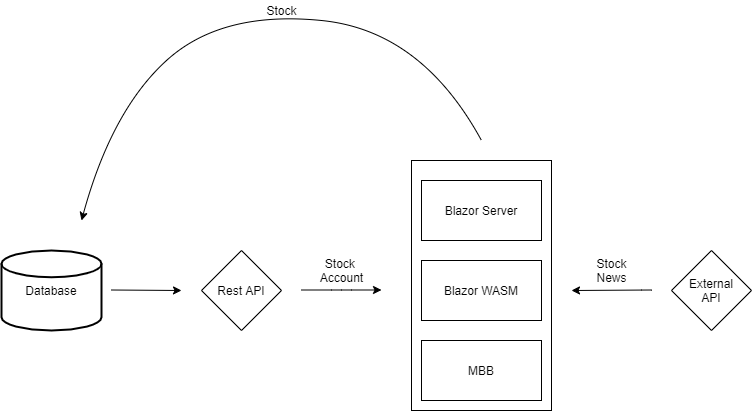
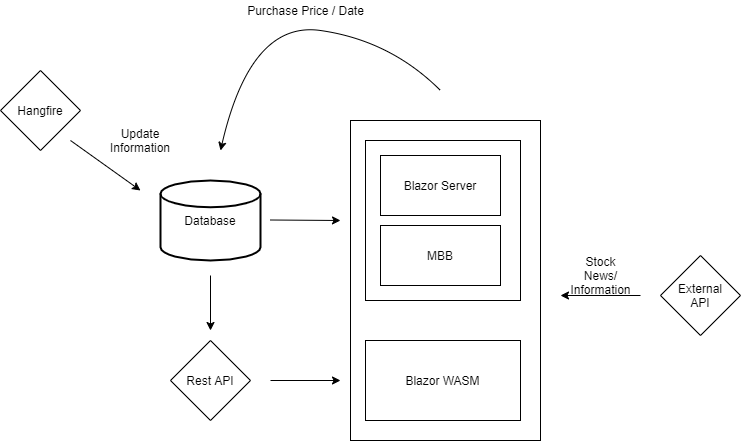
edited the inception and the modeling accordingly

diff --git a/Planning/Inception.md b/Planning/Inception.md
@@ -12,21 +12,16 @@ __________________________________
 - The RestAPI would be built using the .NET Core Web API
 - External APIs/resources currently consist of the following unless found unfit:
     - Necessary stock information
-        - Alpha Vantage (First option)
-        - Financial Modeling Prep  
-        - Yahoo Finance (Hosted on RapidAPI)
+        - Alpha Vantage 
     - Stock News
         - Stock News API
     - Graphs 
         - Syncfusion 
 - Authentication will enabled on the RestAPI
+- Stock information as well as the user information should be updated in the background using Hangfire
 
 **Considerations / Planning Functionality**:
-- How to call the external API effectively without hitting the hard quota
-- For the live deployment, which cloud provider to use
-- Will ignore scalability until application fully deployed
-- How to secure the RestAPI (third-party?)
-- Leveraging each Blazor hosting model features
-- Database schema design for stock 
-- Authentication: how and where do I do it 
+- Reusing the components with minimal effort between the three hosting models
+- Finding the right scheduling time to execute Hangfire
+- Design changes of the overall applications 
 
